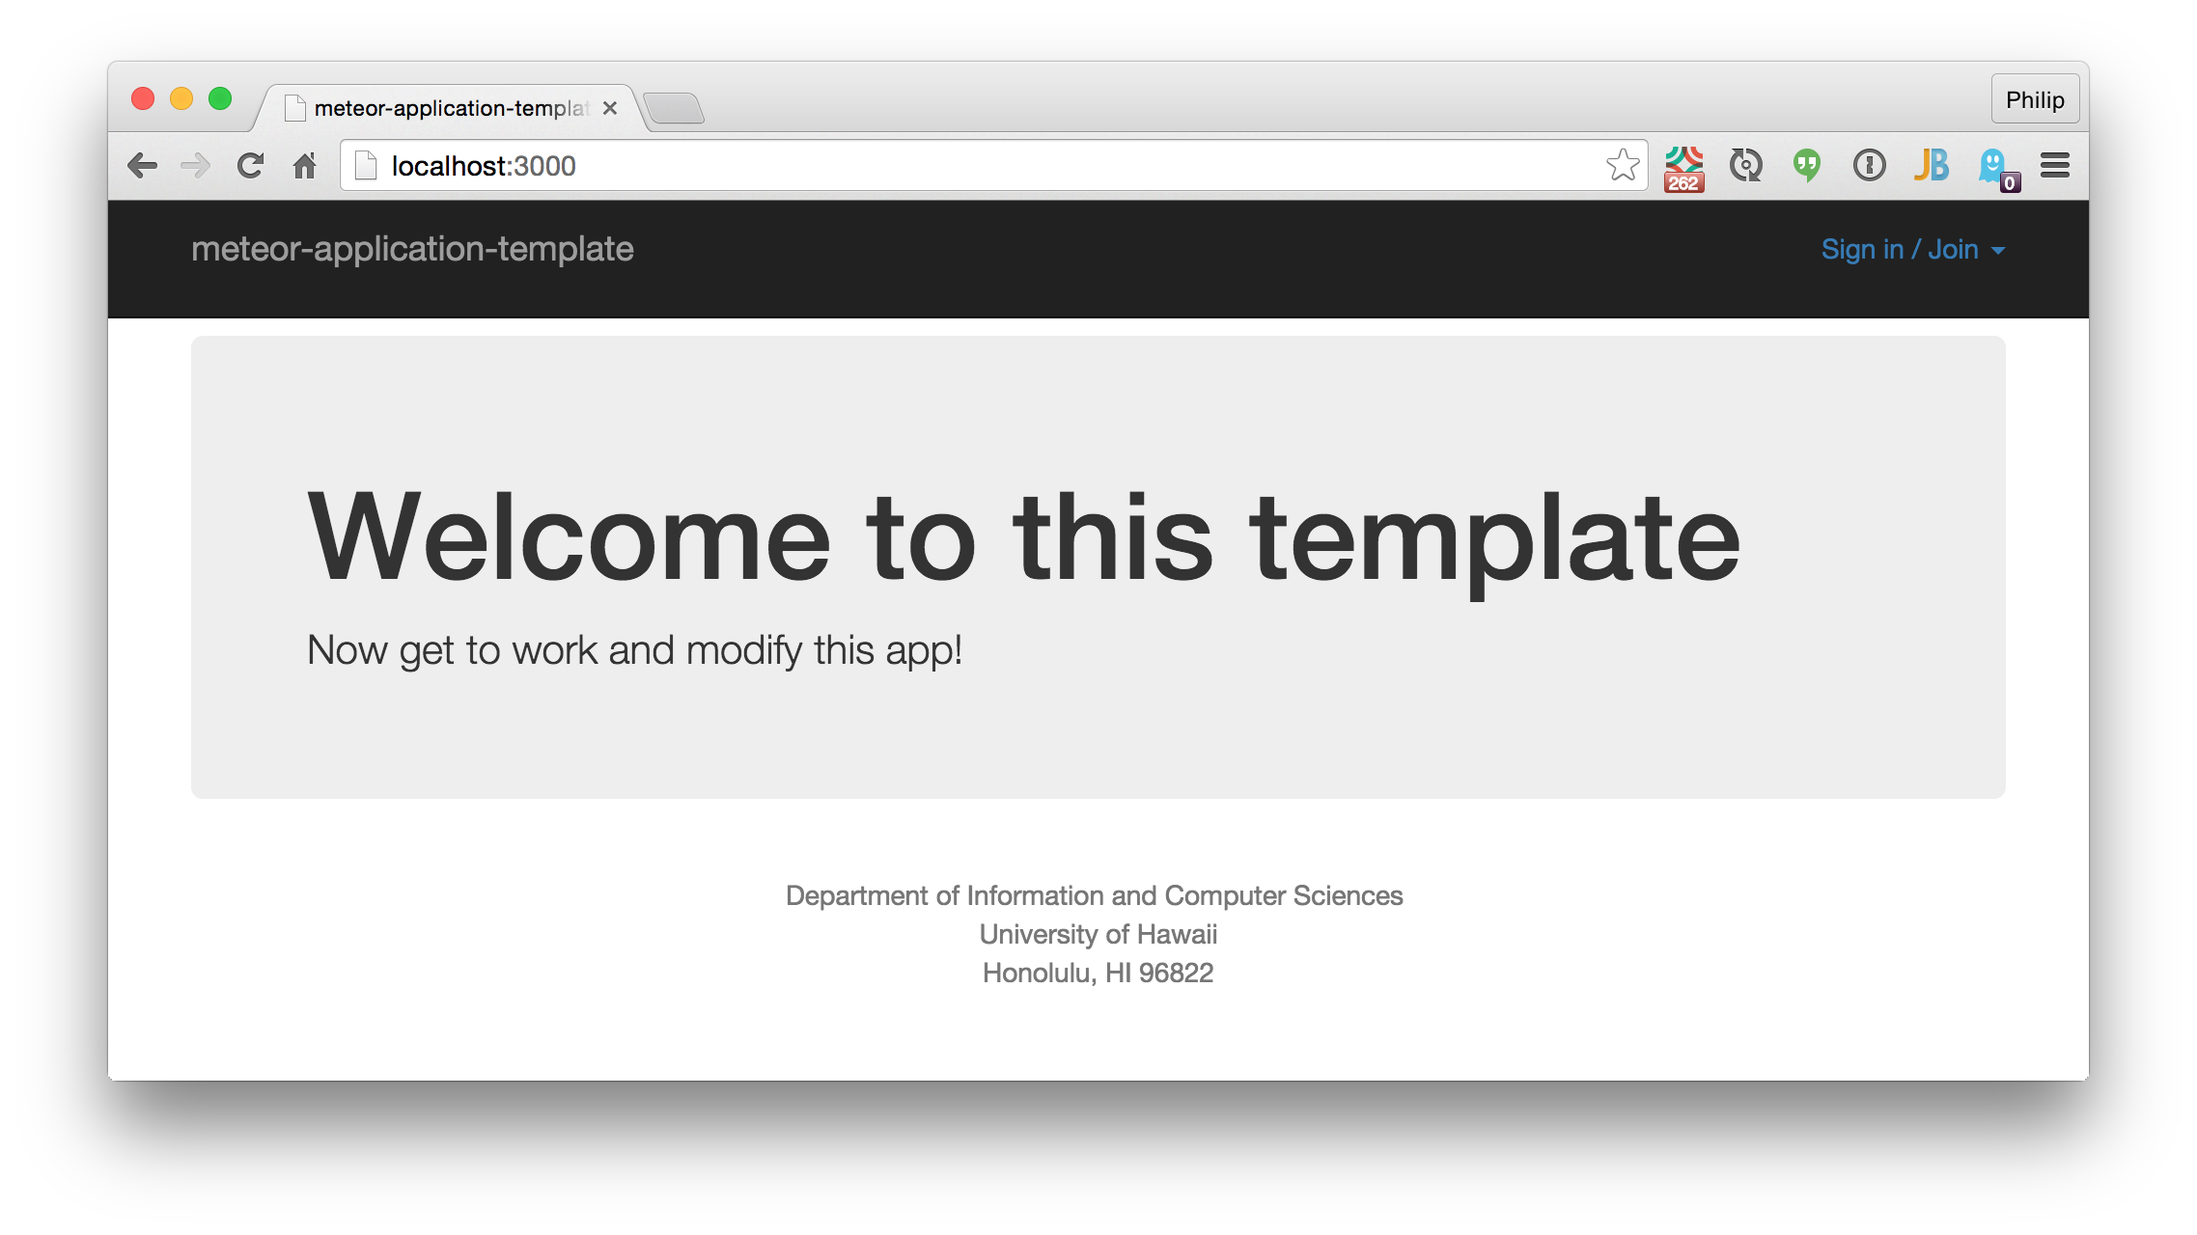
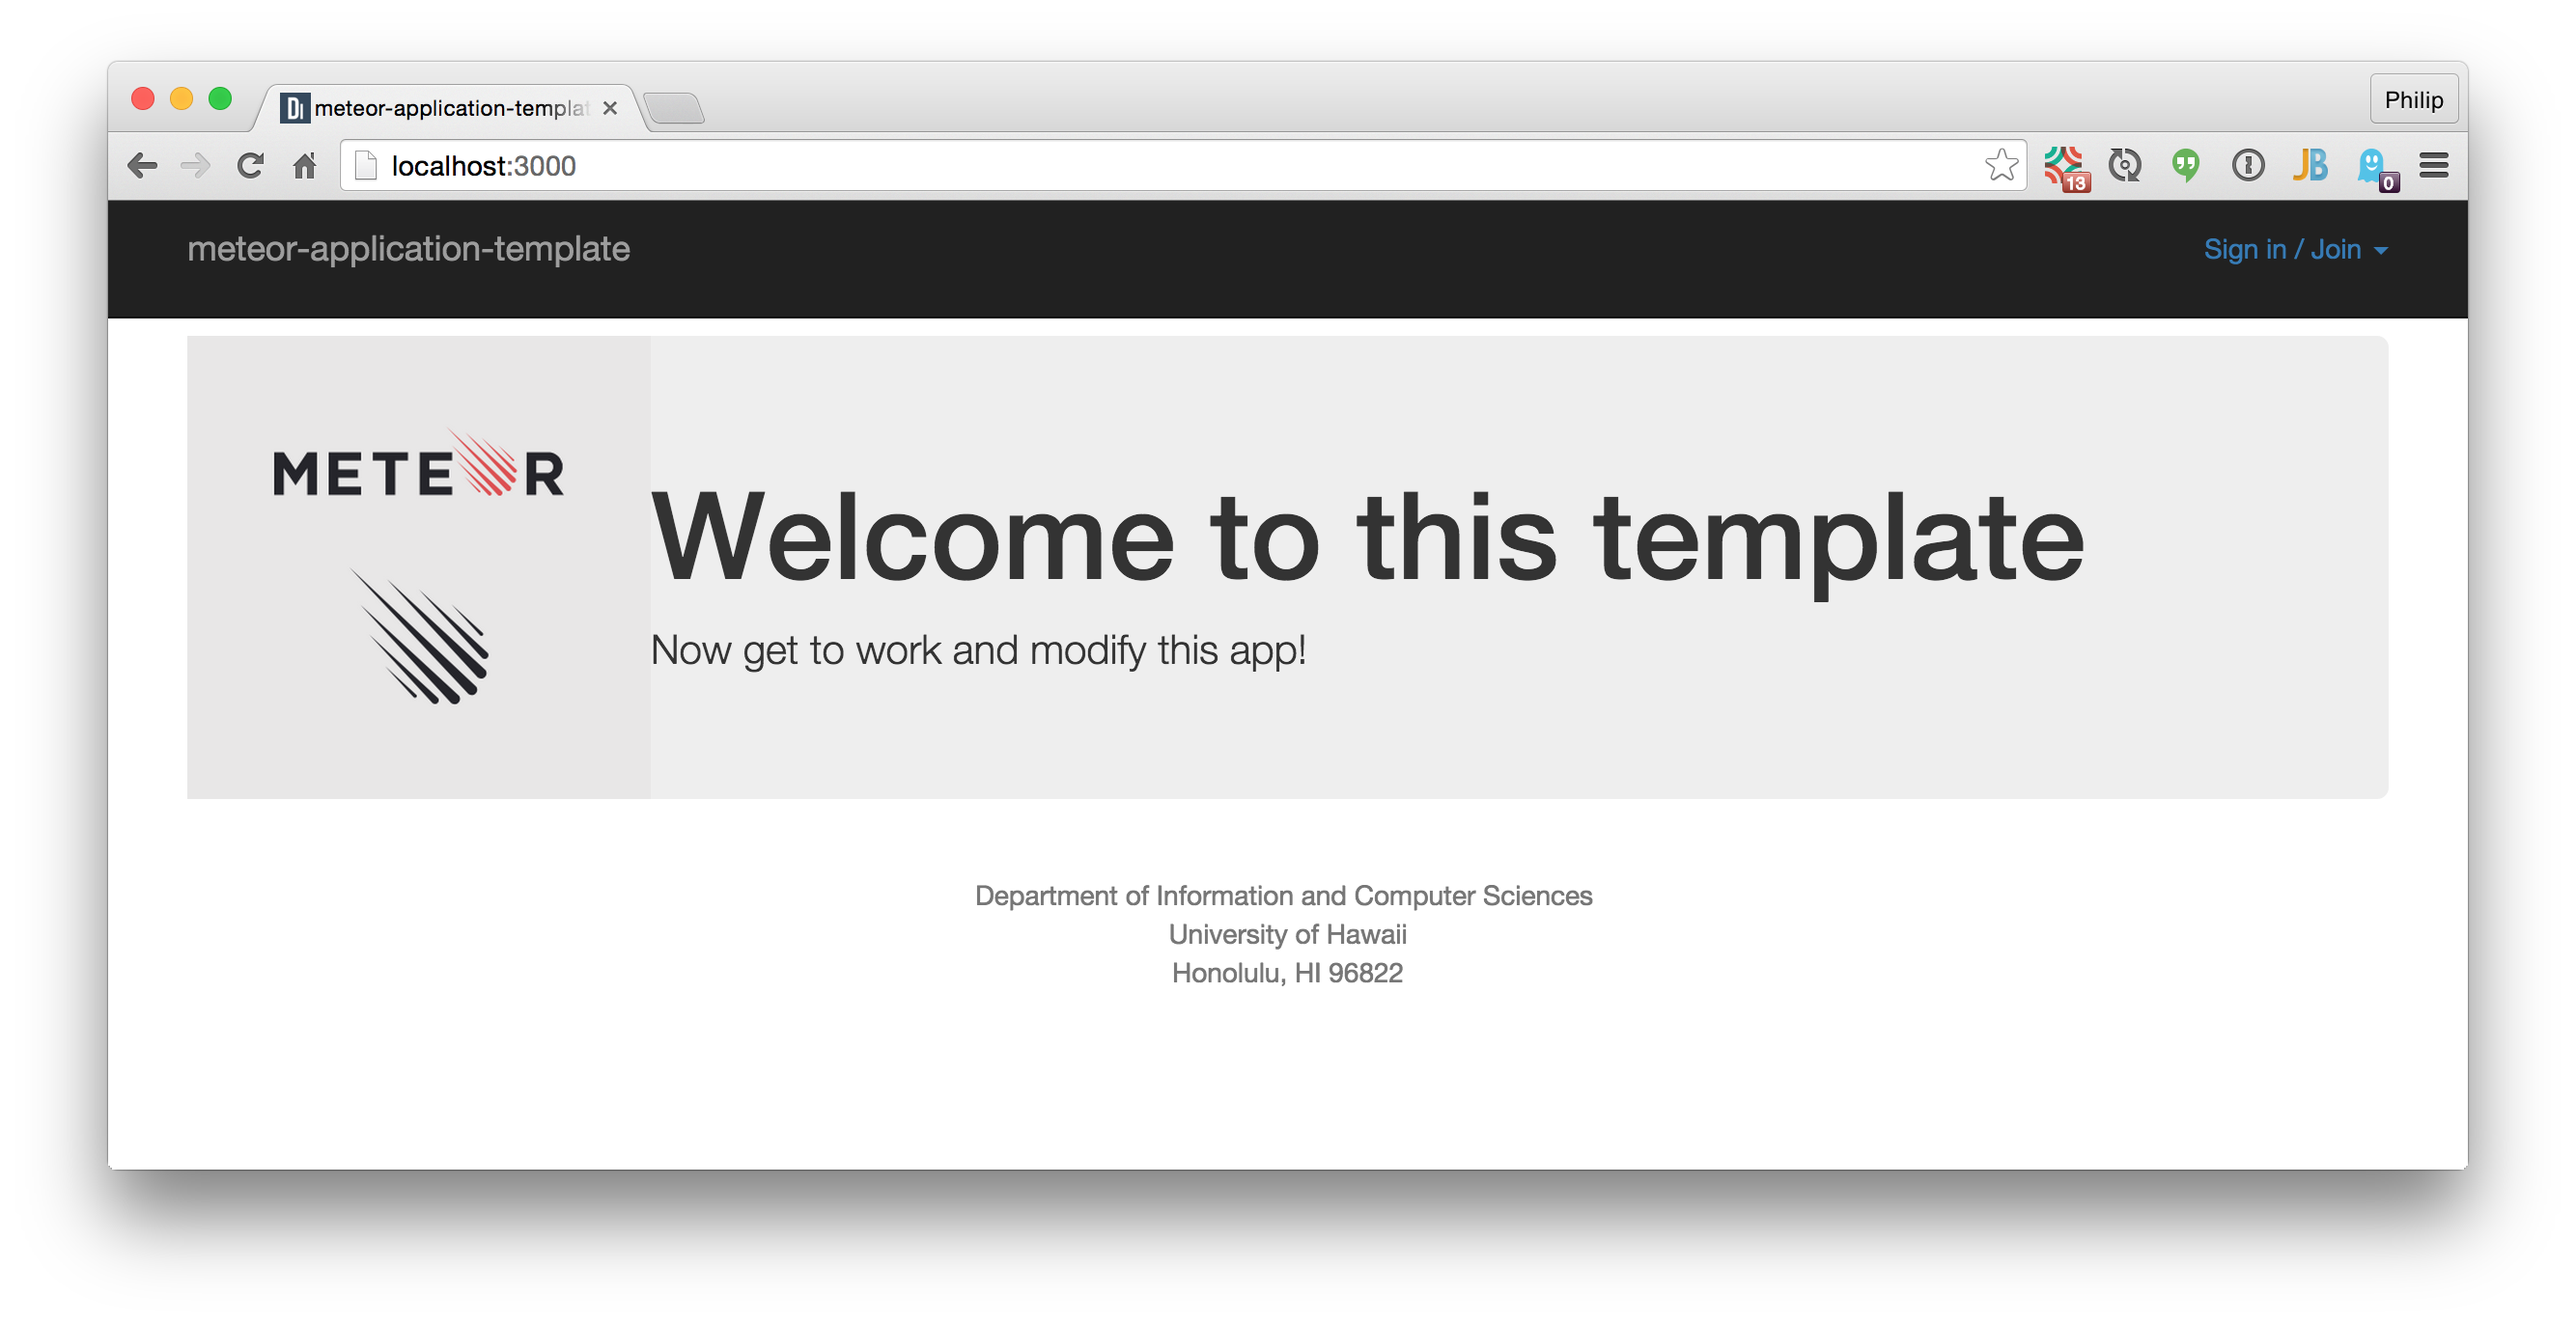
Update with sample static asset

Changed region(s): [[0.0312, 0.0625, 0.967, 0.9062], [0.0936, 0.3125, 0.8111, 0.5625], [0.3431, 0.6562, 0.6551, 0.8125]]

diff --git a/app/client/templates/home/Home.html b/app/client/templates/home/Home.html
@@ -1,6 +1,7 @@
 <template name="Home">
+  <img style="float:left" width="240px" src="/images/meteor-logo.png" />
   <div class="jumbotron">
-    <img style="float:left" src="/images/meteor-logo.png" />
+
     <h1>Welcome to this template</h1>
     <p>Now get to work and modify this app!</p>
   </div>

diff --git a/README.md b/README.md
@@ -58,6 +58,8 @@ client/
     application/
     home/
     stuff/
+public/
+  images/
 lib/
   accounts/
   collections/
@@ -194,6 +196,10 @@ In addition, it defines "Stuff" and "stuff" as globals.  You will want to edit t
 Click the image below to watch a 25 minute walkthrough of this system.
 
 [<img src="https://raw.githubusercontent.com/ics-software-engineering/meteor-application-template/master/doc/meteor-application-template-youtube.png" width="600">](https://www.youtube.com/watch?v=Ioe0dNyqjYg)
+
+Note that since the time of this screencast:
+
+  * I've added a public/images directory containing a sample image to illustrate the use of static assets.  The home page displays this image (the Meteor logo).
 
 
 
